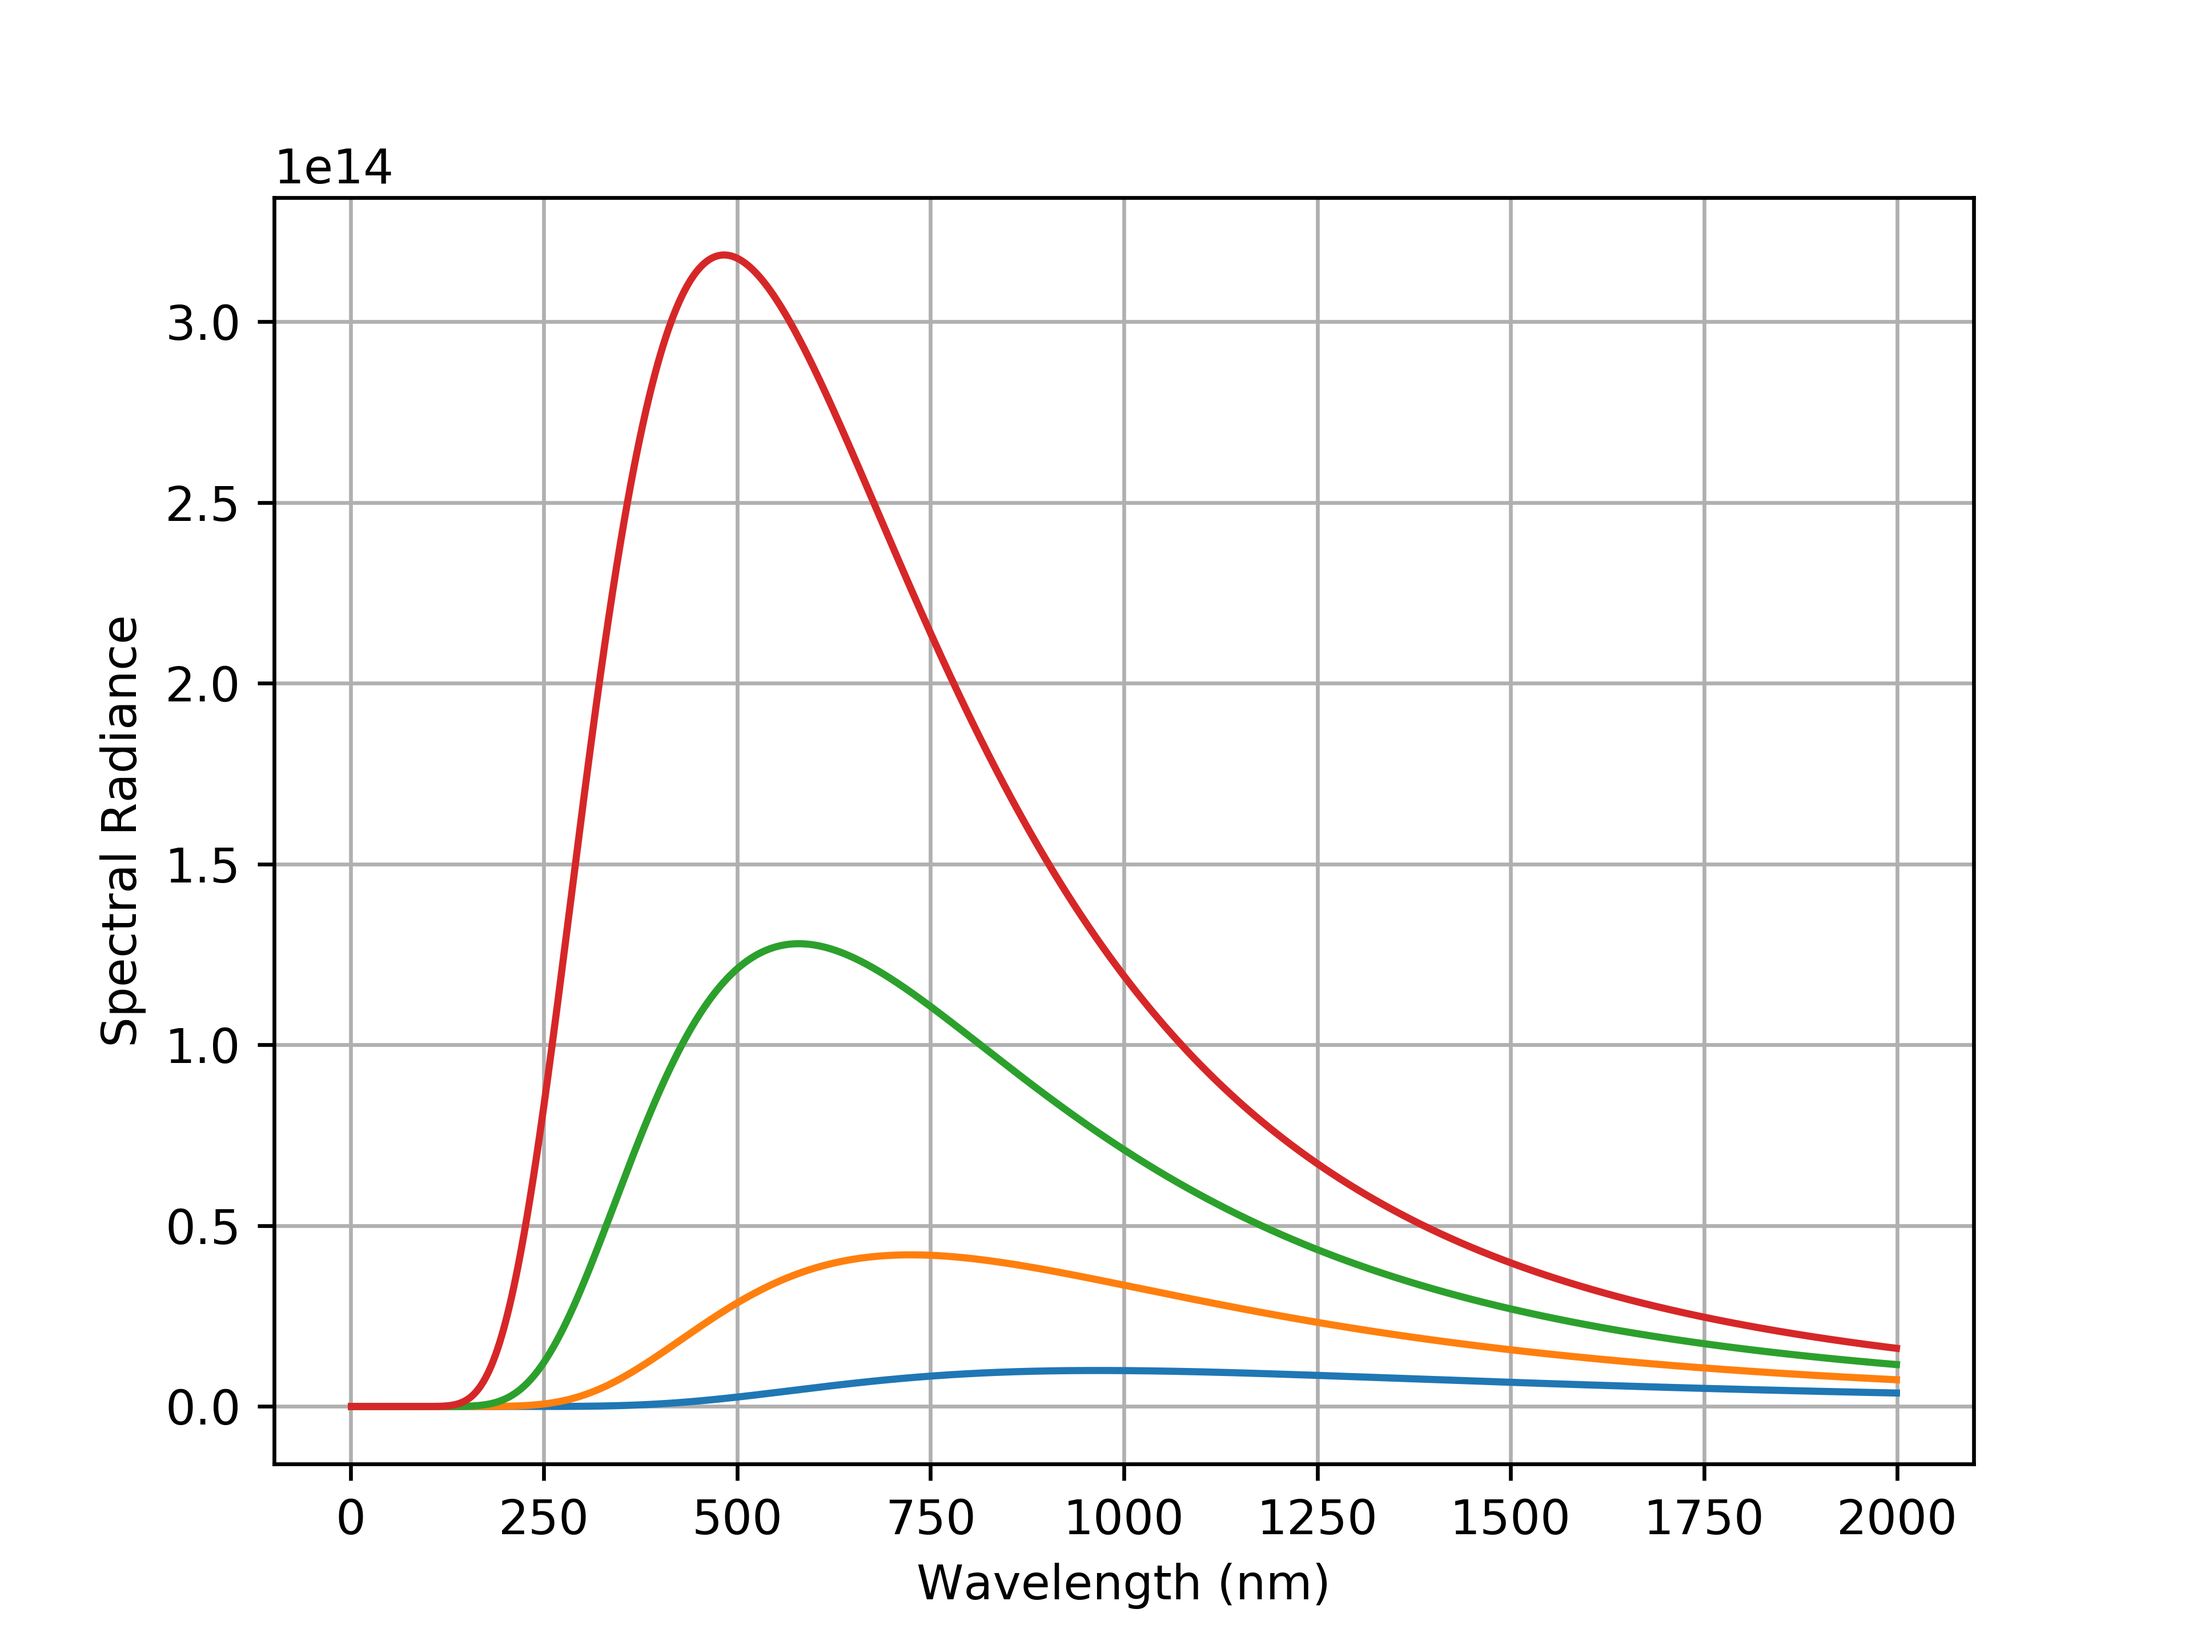
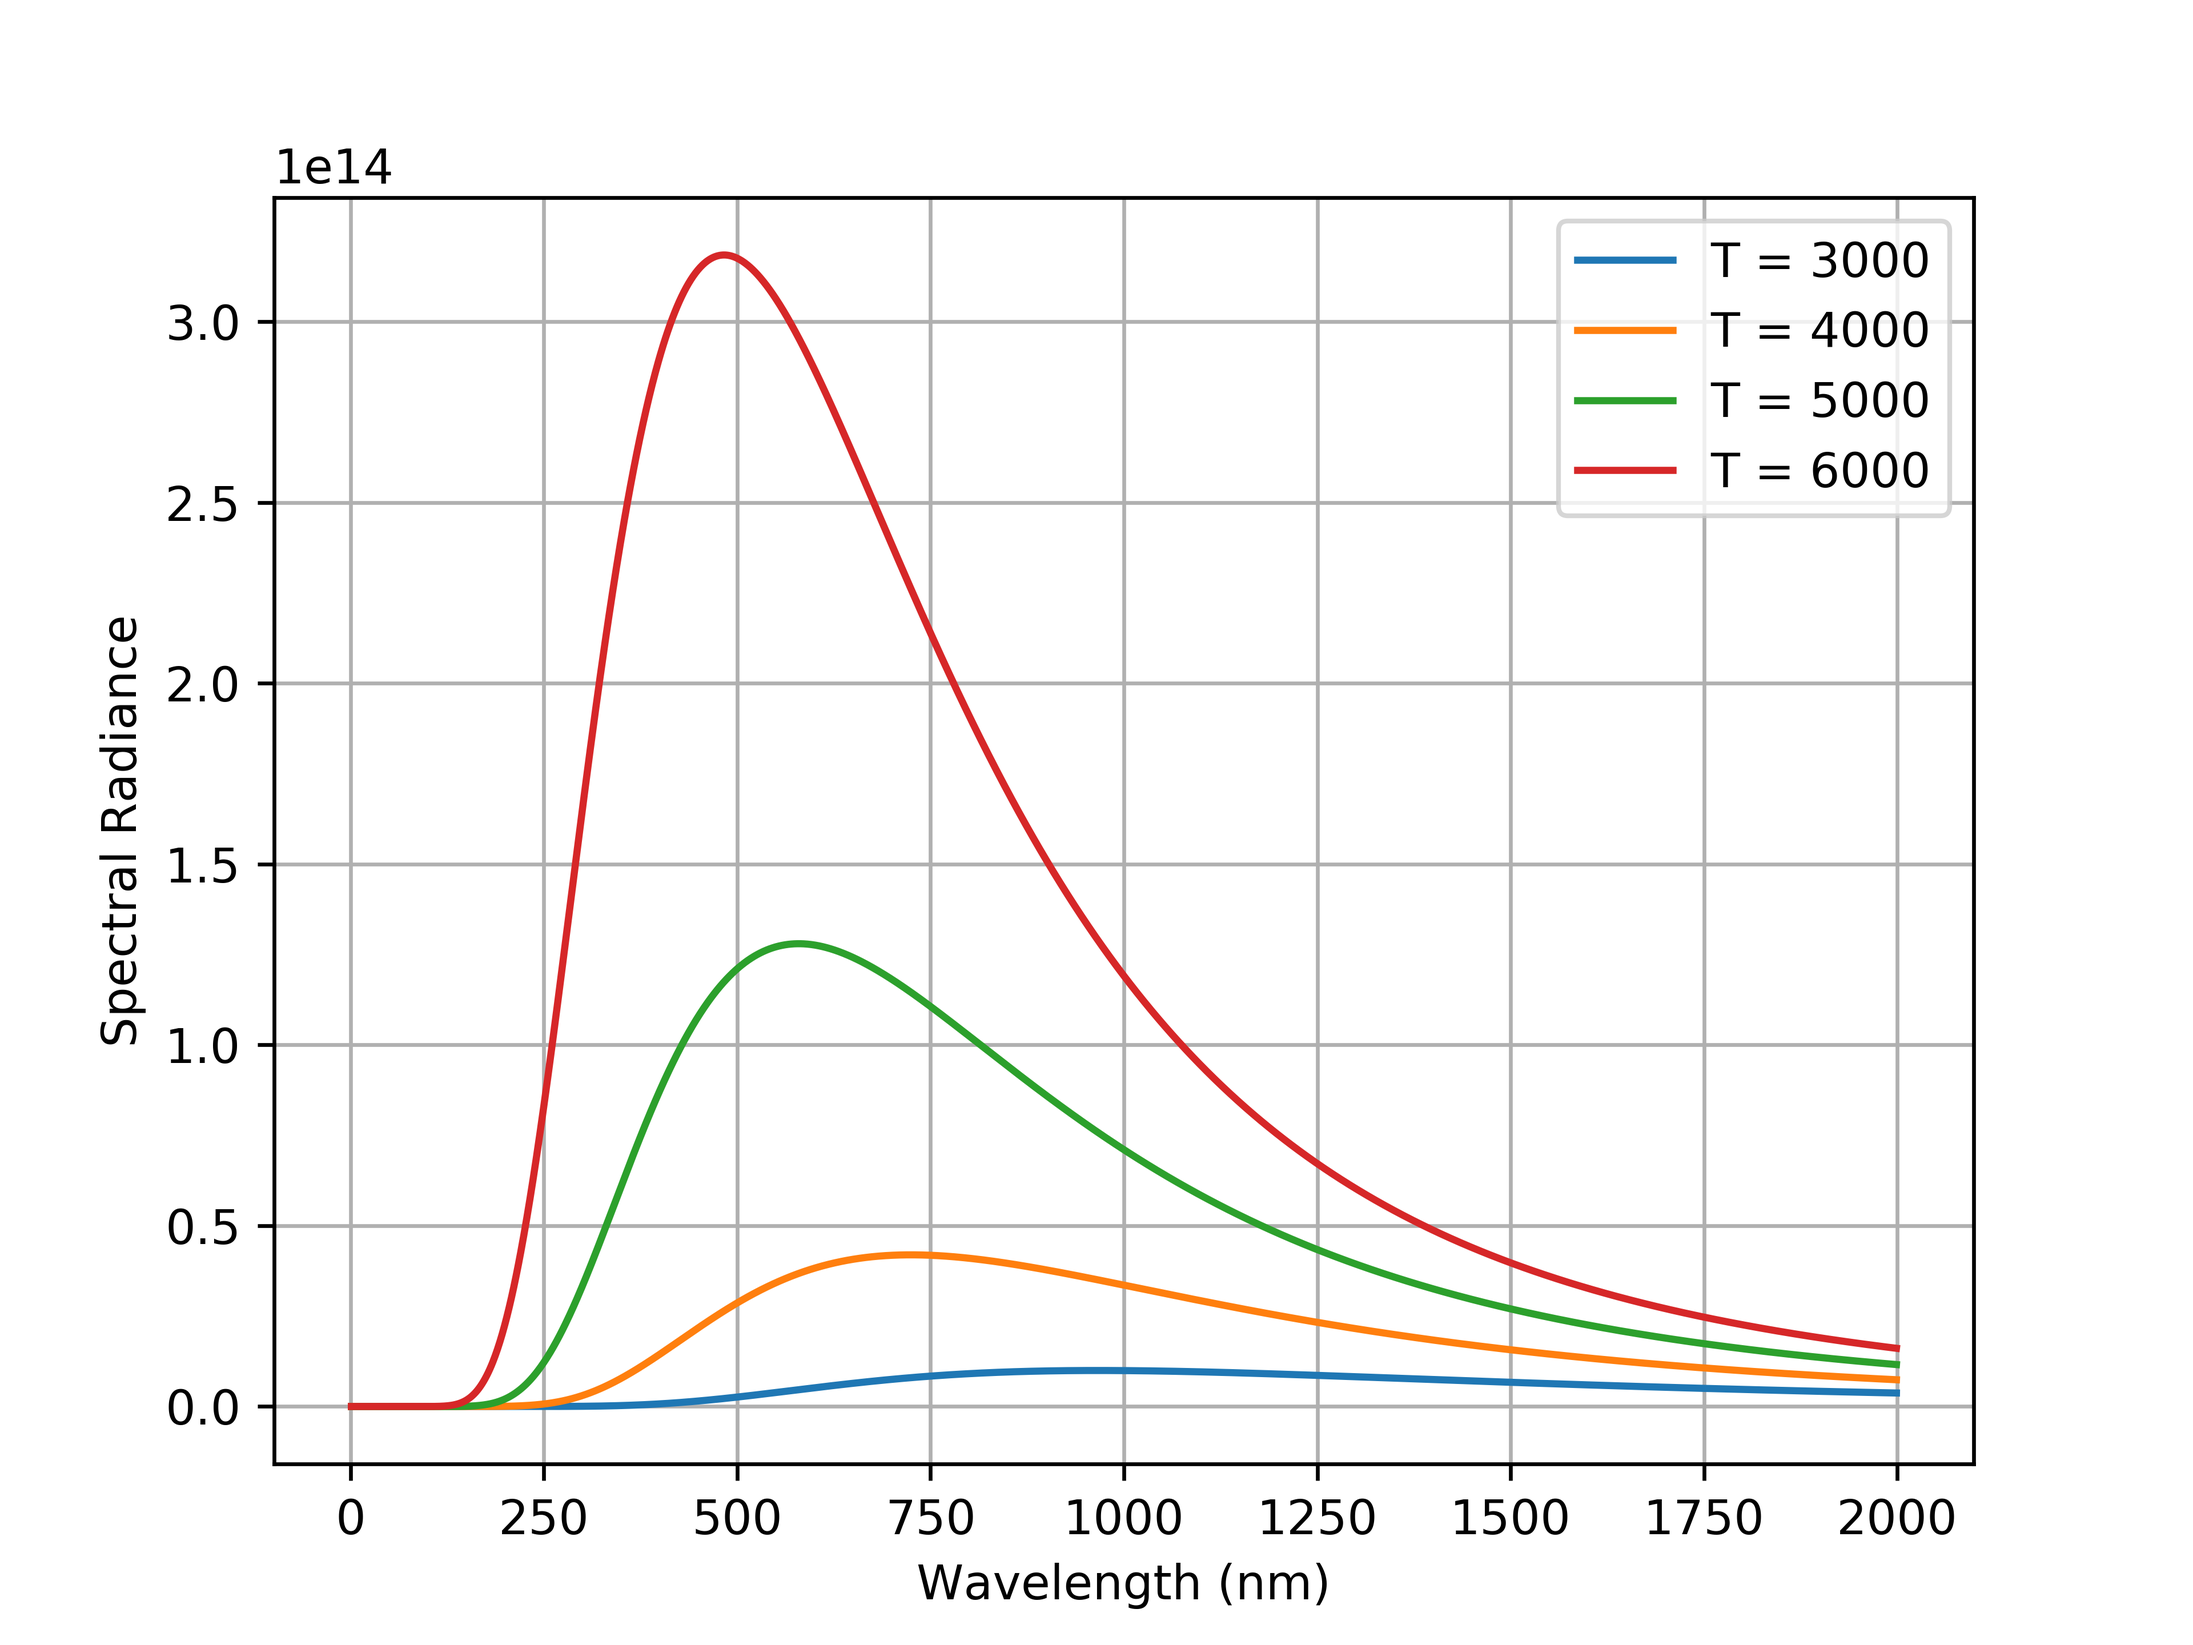
adding a legend

Changed region(s): [[0.7188, 0.125, 0.9062, 0.3125]]

diff --git a/untitled.py b/untitled.py
@@ -37,12 +37,13 @@ while i < T:
         sr[j] = pl(np.float64(j*1e-9), i)
         csr[j] = rjl(np.float64(j), i)
         j += 1
-    plt.plot(w, sr)
+    plt.plot(w, sr, label="T = " + str(i))
     i += 1000
 
 # plt.plot(w, csr)
 # plt.axis((0, 2000, 0, 3.3e-13))
 plt.grid()
+plt.legend()
 plt.xlabel('Wavelength (nm)')
 plt.ylabel("Spectral Radiance")
 plt.savefig("bc.png", dpi=600)
